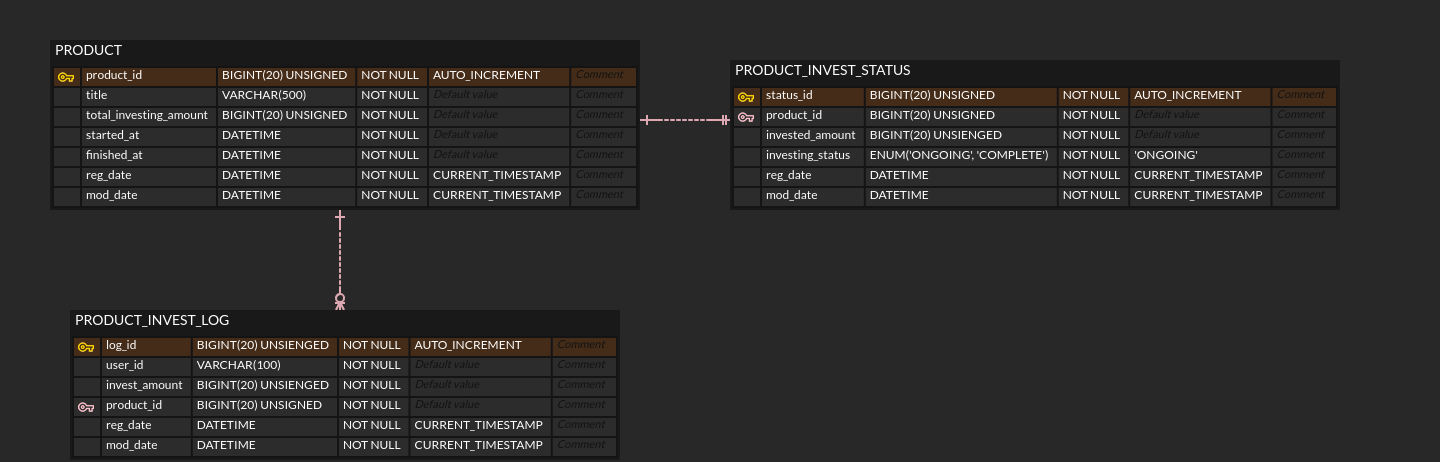
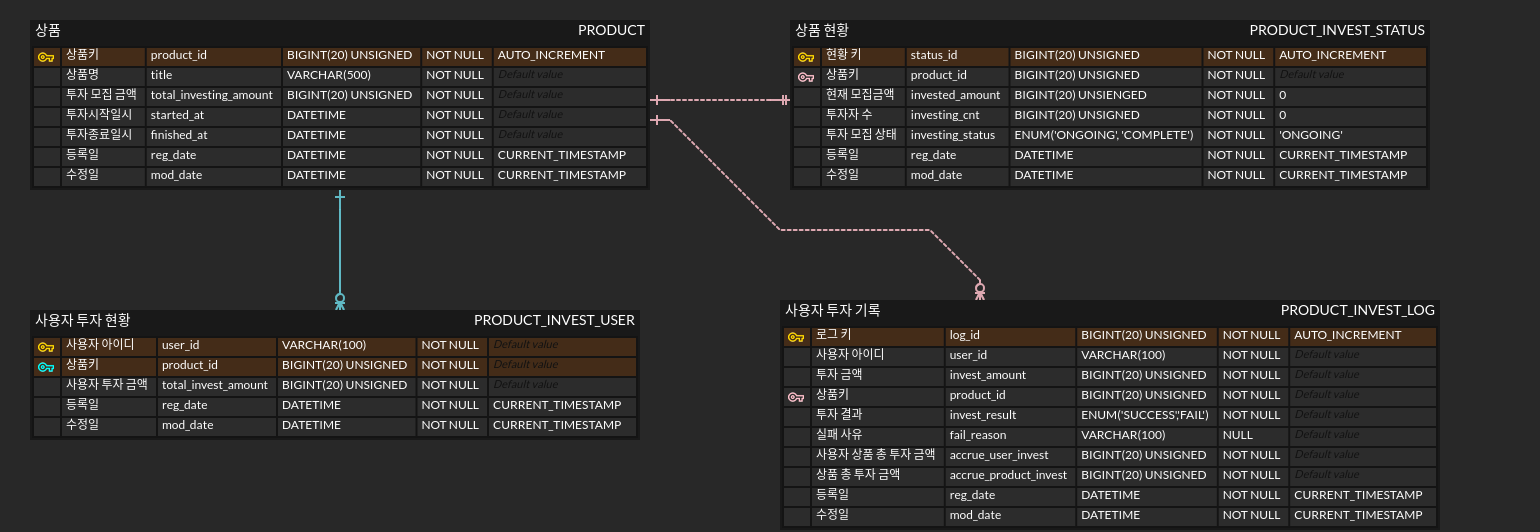
Readme ing

diff --git a/README.md b/README.md
@@ -1,21 +1,214 @@
 
 # 카카오페이 서버개발 과제
 
+---
+
+## 개발 환경
+
+- Ubuntu 20.04
+- H2 1.4.200
+- RabbitMQ 3.9.7
+- Redis 5.0.7
+
+
+- OpenJDK11
+- Spring Boot 2.5.3
+- JPA
+- QueryDSL
+- EHCache
+- Gradle
+- Junit5
+
+---
+
 ## 서버 구성
 
-- 투자 상품이 오픈될 때, 다수의 고객이 동시에 투자를 시작하기에 트래픽 분산을 위해  
-데이터를 읽어오는 기능의 서버와 데이터를 쓰는 서버 두개로 나누어 기능을 분리하였다.  
-따라서 core 모듈에서 공통적인 기능을 담당하고 http 모듈에서 http 서버의 공통 설정을 구현하고  
-읽기 서버는 http_read 쓰기 서버는 http_write 모듈로 분리하였다.  
+### 멀티모듈 구성도
+![module](./readme_img/module.png)
 
+### 서버 구성도
+![server](./readme_img/server.png)
 
-- PRODUCT 상품 테이블을 기준으로  
-PRODUCT_INVEST_STATUS 상품의 투자 상태 테이블  
-PRODUCT_INVEST_LOG 상품의 투자 로그 테이블  
-을 구축하였다.
-
+### ERD
 ![erd](./readme_img/ERD.png)
+[DDL](./core/src/main/resources/schema.sql)
 
-- index 설정 최적화
-- ehcache redis 캐시 최적화
-- x-user-id global exception 처리
+---
+
+## 핵심문제 해결 전략
+
+
+
+
+--- 
+---
+
+## API 분석
+
+### 1. 전체 투자 상품 조회 API
+
+Request
+```bash
+curl -X GET "http://localhost:8080/api/product?page=0&size=10"
+```
+
+Response body
+```json
+{
+  "result": true,
+  "code": "01",
+  "message": null,
+  "data": {
+    "totalCount": 2,
+    "list": [
+      {
+        "productId": 3,
+        "title": "product2",
+        "totalInvestingAmount": 100,
+        "currentInvestingAmount": 100,
+        "investingCnt": 4,
+        "startedAt": "2021-09-27T03:08:23.115211",
+        "finishedAt": "2021-10-17T00:00:00",
+        "investStatus": "COMPLETE"
+      },
+      {
+        "productId": 2,
+        "title": "product1",
+        "totalInvestingAmount": 1000,
+        "currentInvestingAmount": 210,
+        "investingCnt": 3,
+        "startedAt": "2021-09-26T03:02:16.953372",
+        "finishedAt": "2021-10-17T00:00:00",
+        "investStatus": "ONGOING"
+      }
+    ]
+  },
+  "status": 200
+}
+```
+
+![API1](./readme_img/api1.png)
+
+1. 상품 데이터 요청  
+   - (1) EHCache에 Product 데이터 캐시를 확인  
+    
+   - (2-1) Cache hit시 해당 Product 데이터를 사용  
+   - (2-2) Cache miss시 데이터베이스에 요청  
+   - (2-2-1) 데이터베이스에 쿼리를 통해 Product 데이터를 사용
+
+2. 현재 모집금액, 투자자 수 요청  
+   - (3) 변동이 빈번한 currentInvestingAmount, investingCnt 의 경우 Redis를 통하여 요청
+   
+
+### 2. 투자하기 API
+
+Request
+```bash
+curl -X POST "http://localhost:8081/api/invest" -H "X-USER-ID: user4" -H "Content-Type: application/json" -d "{ \"investAmount\": 10, \"productId\": 3}"
+```
+
+Response body
+```json
+// 성공시
+{
+  "result": true,
+  "code": "01",
+  "message": null,
+  "data": "OK",
+  "status": 200
+}
+
+// 총 투자모집 금액 넘을시 Sold out 반환
+{
+  "result": false,
+  "code": "SOLD_OUT",
+  "message": "Product is sold out : ",
+  "data": null,
+  "status": 200
+}
+
+
+// X-USER-ID 없을 경우
+{
+  "result": false,
+  "code": "MISSING_X_USER_ID",
+  "message": "Missing X-USER-ID header value : ",
+  "data": null,
+  "status": 400
+}
+```
+
+![API2](./readme_img/api2.png)
+
+1. Validation
+   - (1) 동기화를 위해 Distributed lock 요청
+   - (2) 상품의 현재 총 투자금액을 요청
+   - (3) 총 투자금액이 상품의 목표 투자금액을 넘을시 Sold out 반환
+   
+2. 1차 투자 처리후 성공처리 반환 
+   - (4) 상품의 현재 총 투자금액에 현재 투자요청 금액을 추가
+   - (5) PRODUCT_INVEST_LOG 테이블에 해당 요청건을 등록  
+   이때 invest_result = FAIL, fail_reason = PENDING 처리한다
+   - (6) RabbitMQ에 productId와 investLogId를 메세지로 보낸다
+   - (7) RabbitMQ에 비동기 처리 후 클라이언트에 성공처리 반환  
+   
+3. 투자 완료처리 
+   - (8) RabbitMQ의 Queue에 등록된 메세지를 순차적으로 Mq_receive 서버가 Consume 한다
+   - (9) PRODUCT_INVEST_STATUS 에 메세지로 전달받은 productId를 기준으로 투자를 최신 상태로 업데이트한다
+   - PRODUCT_INVEST_USER 테이블에 사용자의 해당 Product에 대한 누적 투자 기록을 업데이트한다
+   - (10) 메세지로 전달받은 investLogId의 로그건을  
+   invest_result = SUCCESS, fail_reason = null 로 업데이트하여 투자를 성공적으로 마친다
+
+ 
+### 3. 나의 투자상품 조회 API
+
+Request
+```bash
+curl -X GET "http://localhost:8080/api/product/my/invest?page=0&size=10" -H "X-USER-ID: user4"
+```
+
+Response body
+```json
+// 성공시 
+{
+  "result": true,
+  "code": "01",
+  "message": null,
+  "data": {
+    "totalCount": 2,
+    "list": [
+      {
+        "productId": 2,
+        "userId": "user4",
+        "title": "product1",
+        "totalInvestingAmount": 1000,
+        "myInvestingAmount": 10,
+        "investDate": "2021-09-27T03:55:51.294487"
+      },
+      {
+        "productId": 3,
+        "userId": "user4",
+        "title": "product2",
+        "totalInvestingAmount": 100,
+        "myInvestingAmount": 30,
+        "investDate": "2021-09-27T03:11:01.981852"
+      }
+    ]
+  },
+  "status": 200
+}
+
+// X-USER-ID 없을 경우
+{
+  "result": false,
+  "code": "MISSING_X_USER_ID",
+  "message": "Missing X-USER-ID header value : ",
+  "data": null,
+  "status": 400
+}
+```
+
+![API3](./readme_img/api3.png)
+
+1. 사용자의 투자상품을 반환
+   - (1) QueryDSL의 QueryProjection 을 통해 사용자의 투자상품 현황을 반환 받는다  
